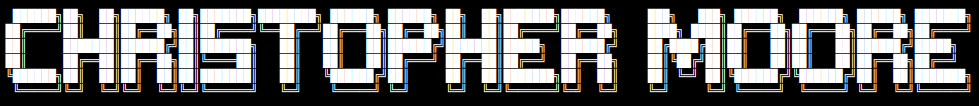
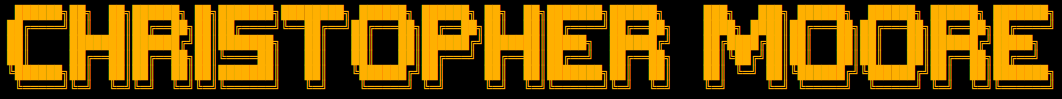
amber screen

diff --git a/styles.css b/styles.css
@@ -21,8 +21,6 @@
     pointer-events: none;
 }
 
-
-
 body,
 html {
     font-family: 'dos', sans-serif;
@@ -42,6 +40,7 @@ header {
 .profile img {
     max-width: 200px;
     margin-bottom: 20px;
+    filter: grayscale(100%) sepia(100%) hue-rotate(45deg) brightness(70%);
 }
 
 .bio img {
@@ -120,3 +119,14 @@ header {
     cursor: pointer;
 }
 
+.overlay {
+  position: fixed;
+  top: 0;
+  left: 0;
+  width: 100%;
+  height: 100%;
+  background-color: #cc8a00; /* Set the color to #ffb000 (amber) */
+  mix-blend-mode: overlay; /* Overlay blend mode */
+  pointer-events: none; /* Allow interaction with underlying elements */
+  z-index: 9999; /* Ensure it's on top of other content */
+}

diff --git a/index.html b/index.html
@@ -37,7 +37,7 @@ I enjoy building things: <br></p>
     <span class="close" onclick="closeImage()">&times;</span>
     <img id="fullImage" src="" alt="Full Image">
   </div>
-
+<div class="overlay"></div>
   <script src="script.js"></script>
 </body>
 </html>
